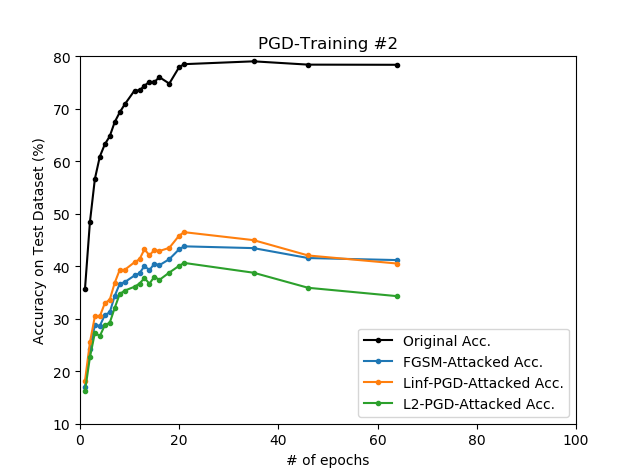
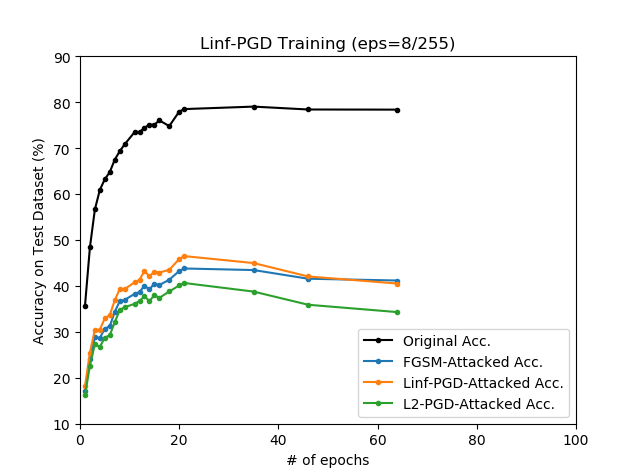
.

diff --git a/README.md b/README.md
@@ -2,117 +2,23 @@
 
 ### Standard Training
 
-```
-python train.py --device cuda
-                --epochs 200
-                --batch_size 32
-                --lr 0.01
-                --lr_decay 20
-```
-
 <p align="center">
     <img width=50% src="./md/eps2/plot0.png"><img width=50% src="./md/eps8/plot0.png">
 </p>
 
-#### eps = 2/255
+### PGD-Training
 
-| epoch | Original Acc. | FGSM-Attacked Acc. | Linf-PGD-Attacked Acc. | L2-PGD Attacked Acc. |
-| :-:   |  -:           |  -:                |  -:                    | -:                   |
-| e076  | 90.19 %       | 51.35 %            | 18.64 %                | 12.97 %              |
-
-#### eps = 8/255
-
-| epoch | Original Acc. | FGSM-Attacked Acc. | Linf-PGD-Attacked Acc. | L2-PGD Attacked Acc. |
-| :-:   |  -:           |  -:                |  -:                    | -:                   |
-| e076  | 90.19 %       | 34.99 %            | 01.43 %                | 00.67 %              |
-
-### PGD-Trained Classifier
-
-#### PGD-Training #1 (Linf, true label)
+#### Linf-PGD
 
 <p align="center">
-    <img width=50% src="./md/eps8/plot1.png">
+    <img width=50% src="./md/eps2/plot2.png"><img width=50% src="./md/eps8/plot2.png">
 </p>
 
-```
-python train.py --device cuda
-                --epochs 200
-                --batch_size 32
-                --lr 0.01
-                --lr_decay 20
-                --pgd_train linf
-                --pgd_epsilon 8
-                --pgd_label 0
-```
-
-| epoch | Original Acc. | FGSM-Attacked Acc. | Linf-PGD-Attacked Acc. | L2-PGD Attacked Acc. |
-| :-:   |  -:           |  -:                |  -:                    | -:                   |
-| e022  | 74.39 %       | 46.18 %            | 47.76 %                | 43.32 %              |
-| e040  | 77.62 %       | 43.55 %            | 43.91 %                | 38.57 %              |
-
-#### PGD-Training #2 (Linf, predicted label)
+#### L2-PGD
 
 <p align="center">
-    <img width=50% src="./md/eps8/plot2.png">
+    <img width=50% src="./md/eps2/plot4.png"><img width=50% src="./md/eps8/plot4.png">
 </p>
-
-```
-python train.py --device cuda
-                --epochs 200
-                --batch_size 32
-                --lr 0.01
-                --lr_decay 20
-                --pgd_train linf
-                --pgd_epsilon 8
-                --pgd_label 1
-```
-
-| epoch | Original Acc. | FGSM-Attacked Acc. | Linf-PGD-Attacked Acc. | L2-PGD Attacked Acc. |
-| :-:   |  -:           |  -:                |  -:                    | -:                   |
-| e021  | 78.49 %       | 43.77 %            | 46.47 %                | 40.61 %              |
-
-#### PGD-Training #3 (L2, true label)
-
-<p align="center">
-    <img width=50% src="./md/eps8/plot3.png">
-</p>
-
-```
-python train.py --device cuda
-                --epochs 200
-                --batch_size 32
-                --lr 0.01
-                --lr_decay 20
-                --pgd_train l2
-                --pgd_epsilon 8
-                --pgd_label 0
-```
-
-| epoch | Original Acc. | FGSM-Attacked Acc. | Linf-PGD-Attacked Acc. | L2-PGD Attacked Acc. |
-| :-:   |  -:           |  -:                |  -:                    | -:                   |
-| e021  | 71.07 %       | 47.48 %            | 49.57 %                | 45.30 %              |
-| e040  | 75.42 %       | 45.66 %            | 45.86 %                | 41.00 %              |
-
-#### PGD-Training #4 (L2, predicted label)
-
-<p align="center">
-    <img width=50% src="./md/eps8/plot4.png">
-</p>
-
-```
-python train.py --device cuda
-                --epochs 200
-                --batch_size 32
-                --lr 0.01
-                --lr_decay 20
-                --pgd_train l2
-                --pgd_epsilon 8
-                --pgd_label 1
-```
-
-| epoch | Original Acc. | FGSM-Attacked Acc. | Linf-PGD-Attacked Acc. | L2-PGD Attacked Acc. |
-| :-:   |  -:           |  -:                |  -:                    | -:                   |
-| e021  | 76.72 %       | 45.60 %            | 48.59 %                | 43.47 %              |
 
 ## Appendix
 

diff --git a/md/README copy.md b/md/README copy.md
@@ -1,0 +1,128 @@
+## Adversarial Training (CIFAR-10)
+
+### Standard Training
+
+```
+python train.py --device cuda
+                --epochs 200
+                --batch_size 32
+                --lr 0.01
+                --lr_decay 20
+```
+
+<p align="center">
+    <img width=50% src="./md/eps2/plot0.png"><img width=50% src="./md/eps8/plot0.png">
+</p>
+
+#### eps = 2/255
+
+| epoch | Original Acc. | FGSM-Attacked Acc. | Linf-PGD-Attacked Acc. | L2-PGD Attacked Acc. |
+| :-:   |  -:           |  -:                |  -:                    | -:                   |
+| e076  | 90.19 %       | 51.35 %            | 18.64 %                | 12.97 %              |
+
+#### eps = 8/255
+
+| epoch | Original Acc. | FGSM-Attacked Acc. | Linf-PGD-Attacked Acc. | L2-PGD Attacked Acc. |
+| :-:   |  -:           |  -:                |  -:                    | -:                   |
+| e076  | 90.19 %       | 34.99 %            | 01.43 %                | 00.67 %              |
+
+### PGD-Training
+
+#### PGD-Training #1 (Linf, true label)
+
+<p align="center">
+    <img width=50% src="./md/eps8/plot1.png">
+</p>
+
+```
+python train.py --device cuda
+                --epochs 200
+                --batch_size 32
+                --lr 0.01
+                --lr_decay 20
+                --pgd_train linf
+                --pgd_epsilon 8
+                --pgd_label 0
+```
+
+| epoch | Original Acc. | FGSM-Attacked Acc. | Linf-PGD-Attacked Acc. | L2-PGD Attacked Acc. |
+| :-:   |  -:           |  -:                |  -:                    | -:                   |
+| e022  | 74.39 %       | 46.18 %            | 47.76 %                | 43.32 %              |
+| e040  | 77.62 %       | 43.55 %            | 43.91 %                | 38.57 %              |
+
+#### PGD-Training #2 (Linf, predicted label)
+
+<p align="center">
+    <img width=50% src="./md/eps8/plot2.png">
+</p>
+
+```
+python train.py --device cuda
+                --epochs 200
+                --batch_size 32
+                --lr 0.01
+                --lr_decay 20
+                --pgd_train linf
+                --pgd_epsilon 8
+                --pgd_label 1
+```
+
+| epoch | Original Acc. | FGSM-Attacked Acc. | Linf-PGD-Attacked Acc. | L2-PGD Attacked Acc. |
+| :-:   |  -:           |  -:                |  -:                    | -:                   |
+| e021  | 78.49 %       | 43.77 %            | 46.47 %                | 40.61 %              |
+
+#### PGD-Training #3 (L2, true label)
+
+<p align="center">
+    <img width=50% src="./md/eps8/plot3.png">
+</p>
+
+```
+python train.py --device cuda
+                --epochs 200
+                --batch_size 32
+                --lr 0.01
+                --lr_decay 20
+                --pgd_train l2
+                --pgd_epsilon 8
+                --pgd_label 0
+```
+
+| epoch | Original Acc. | FGSM-Attacked Acc. | Linf-PGD-Attacked Acc. | L2-PGD Attacked Acc. |
+| :-:   |  -:           |  -:                |  -:                    | -:                   |
+| e021  | 71.07 %       | 47.48 %            | 49.57 %                | 45.30 %              |
+| e040  | 75.42 %       | 45.66 %            | 45.86 %                | 41.00 %              |
+
+#### PGD-Training #4 (L2, predicted label)
+
+<p align="center">
+    <img width=50% src="./md/eps8/plot4.png">
+</p>
+
+```
+python train.py --device cuda
+                --epochs 200
+                --batch_size 32
+                --lr 0.01
+                --lr_decay 20
+                --pgd_train l2
+                --pgd_epsilon 8
+                --pgd_label 1
+```
+
+| epoch | Original Acc. | FGSM-Attacked Acc. | Linf-PGD-Attacked Acc. | L2-PGD Attacked Acc. |
+| :-:   |  -:           |  -:                |  -:                    | -:                   |
+| e021  | 76.72 %       | 45.60 %            | 48.59 %                | 43.47 %              |
+
+## Appendix
+
+### Demo 01. PGD Attack
+
+```
+python demo_pgd.py --device cpu
+                   --pgd_type [linf, l2]
+```
+
+<p align="center">
+    <img width=50% src="./md/demo1.png">
+</p>
